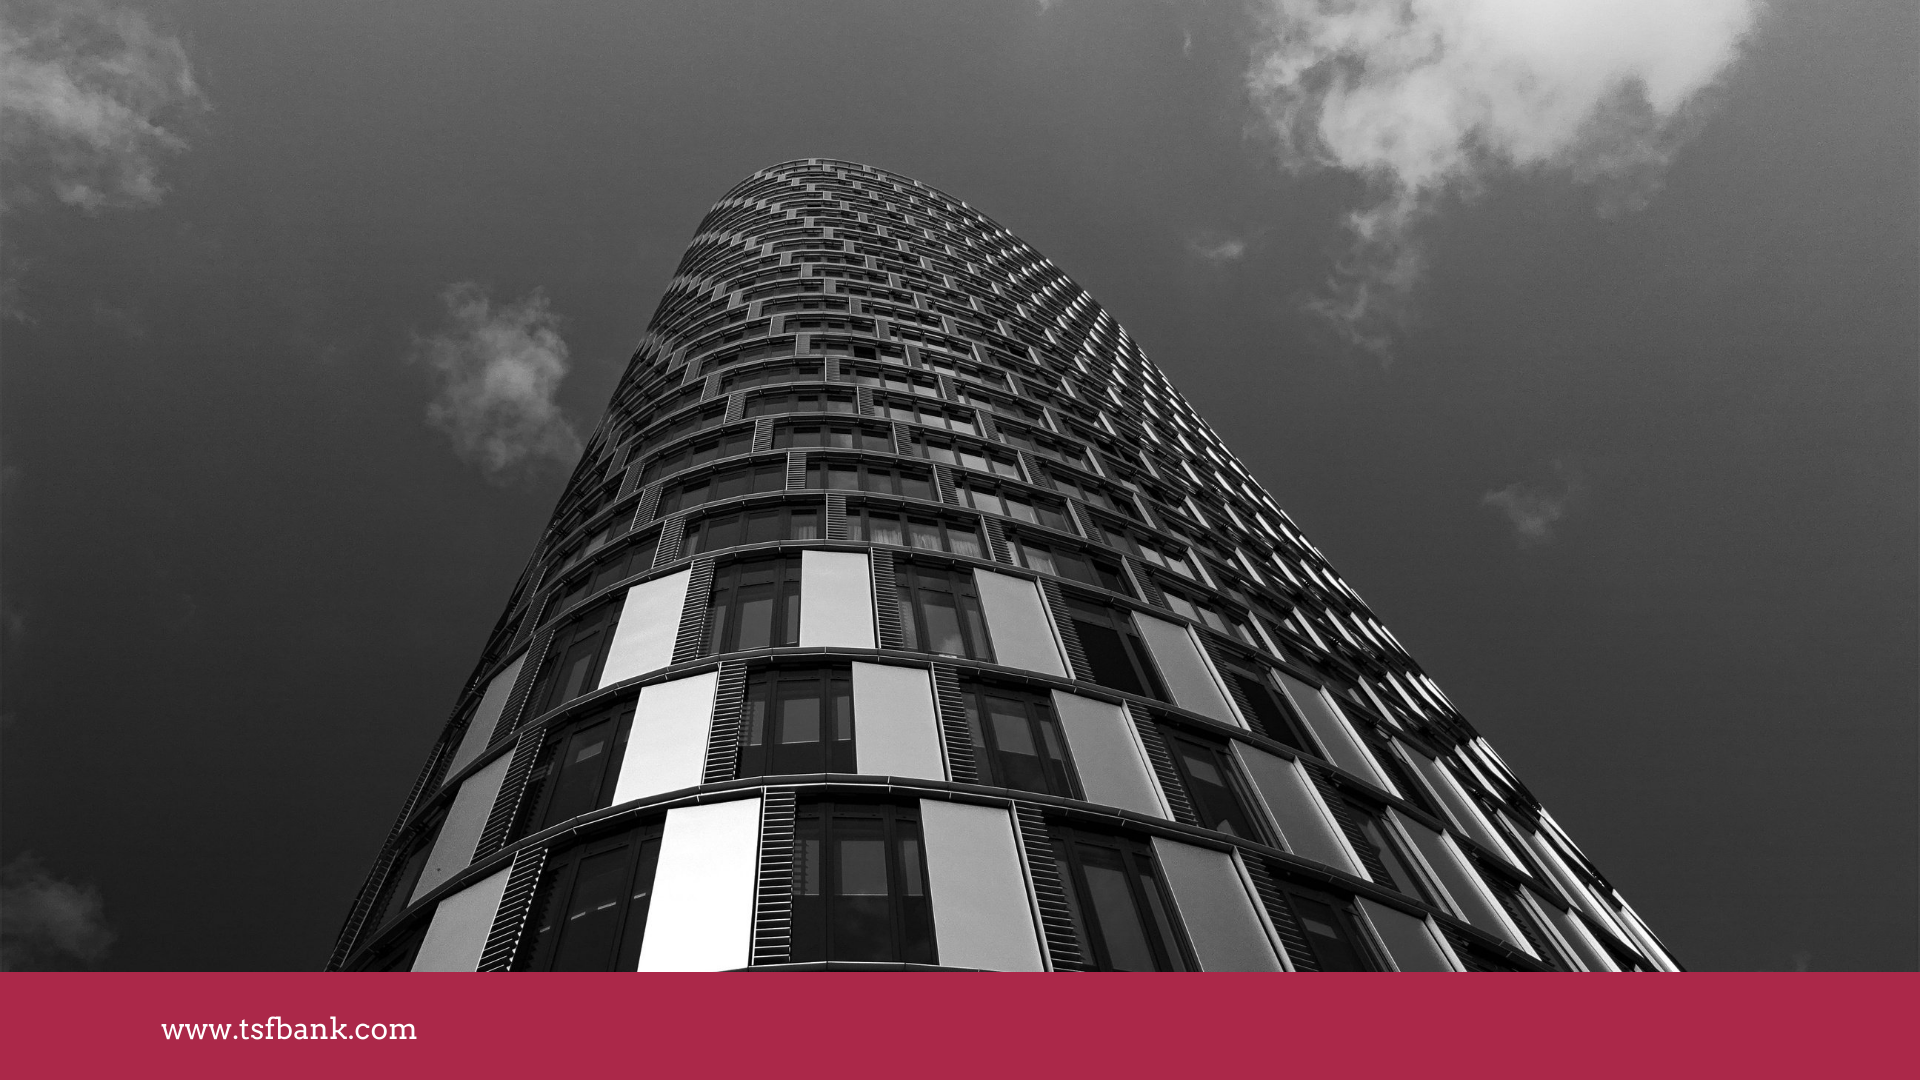
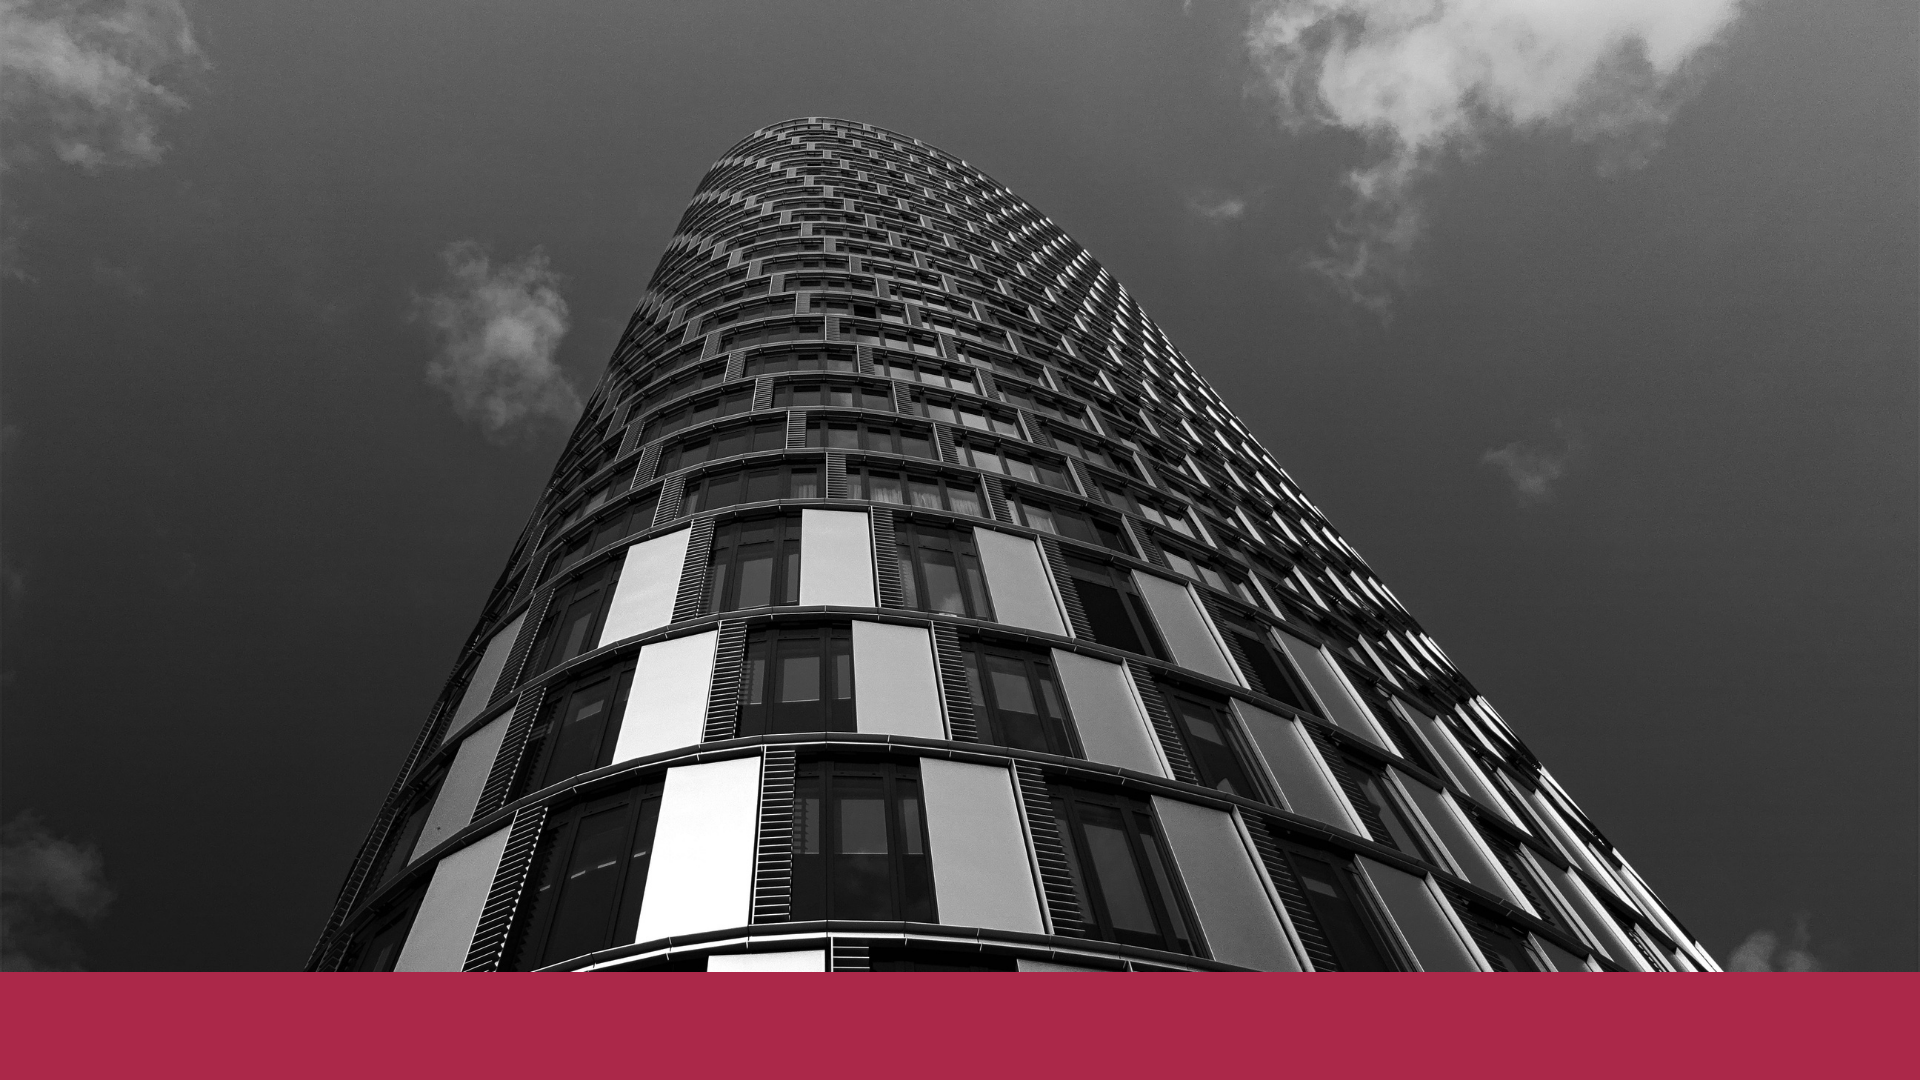
TSF

diff --git a/login.html b/login.html
@@ -15,7 +15,7 @@
 
 </head>
 
-<body>
+<body class="background">
 
     <nav class="navbar navbar-expand-lg navbar-dark bg-dark navbar-custom" style="font-family: -apple-system, BlinkMacSystemFont, 'Segoe UI', Roboto, Oxygen, Ubuntu, Cantarell, 'Open Sans', 'Helvetica Neue', sans-serif; background: #ab2849;">
         <a class="navbar-brand" href="index.html" style="font-family: -apple-system, BlinkMacSystemFont, 'Segoe UI', Roboto, Oxygen, Ubuntu, Cantarell, 'Open Sans', 'Helvetica Neue', sans-serif;"> <img src="Title.png" alt="" width="40" height="40"> &nbsp; TSF Bank &nbsp;&nbsp;</a>
@@ -53,8 +53,24 @@
             </div>
         </div>
     </nav>
-    <div class="background">
-        <br><br><br><br><br><br><br><br><br><br><br><br><br><br><br><br><br><br><br><br><br><br><br><br><br><br><br><br><br><br><br><br><br><br>
+    <div class="container">
+        <br><br><br>
+        <form class="login">
+            <div class="form-group" style="font-family: -apple-system, BlinkMacSystemFont, 'Segoe UI', Roboto, Oxygen, Ubuntu, Cantarell, 'Open Sans', 'Helvetica Neue', sans-serif; font: bold;">
+                <label for="exampleInputEmail1">Email address</label>
+                <input type="email" class="form-control" id="exampleInputEmail1" aria-describedby="emailHelp">
+                <small id="emailHelp" class="form-text text-muted">We'll never share your email with anyone else.</small>
+            </div>
+            <div class="form-group">
+                <label for="exampleInputPassword1">Password</label>
+                <input type="password" class="form-control" id="exampleInputPassword1">
+            </div>
+            <div class="form-group form-check">
+                <input type="checkbox" class="form-check-input" id="exampleCheck1">
+                <label class="form-check-label" for="exampleCheck1">Check me out</label>
+            </div>
+            <button type="submit" class="btn btn-primary">Submit</button>
+        </form>
     </div>
 
 

diff --git a/signup.html b/signup.html
@@ -15,7 +15,7 @@
 
 </head>
 
-<body>
+<body class="background">
 
     <nav class="navbar navbar-expand-lg navbar-dark bg-dark navbar-custom" style="font-family: -apple-system, BlinkMacSystemFont, 'Segoe UI', Roboto, Oxygen, Ubuntu, Cantarell, 'Open Sans', 'Helvetica Neue', sans-serif; background: #ab2849;">
         <a class="navbar-brand" href="index.html" style="font-family: -apple-system, BlinkMacSystemFont, 'Segoe UI', Roboto, Oxygen, Ubuntu, Cantarell, 'Open Sans', 'Helvetica Neue', sans-serif;"> <img src="Title.png" alt="" width="40" height="40"> &nbsp; TSF Bank &nbsp;&nbsp;</a>
@@ -53,9 +53,6 @@
             </div>
         </div>
     </nav>
-    <div class="background">
-        <br><br><br><br><br><br><br><br><br><br><br><br><br><br><br><br><br><br><br><br><br><br><br><br><br><br><br><br><br><br><br><br><br><br>
-    </div>
 
 
     <!-- Optional JavaScript; choose one of the two! -->

diff --git a/user.html b/user.html
@@ -15,7 +15,7 @@
 
 </head>
 
-<body>
+<body class="background">
 
     <nav class="navbar navbar-expand-lg navbar-dark bg-dark navbar-custom" style="font-family: -apple-system, BlinkMacSystemFont, 'Segoe UI', Roboto, Oxygen, Ubuntu, Cantarell, 'Open Sans', 'Helvetica Neue', sans-serif; background: #ab2849;">
         <a class="navbar-brand" href="index.html" style="font-family: -apple-system, BlinkMacSystemFont, 'Segoe UI', Roboto, Oxygen, Ubuntu, Cantarell, 'Open Sans', 'Helvetica Neue', sans-serif;"> <img src="Title.png" alt="" width="40" height="40"> &nbsp; TSF Bank &nbsp;&nbsp;</a>
@@ -53,9 +53,6 @@
             </div>
         </div>
     </nav>
-    <div class="background">
-        <br><br><br><br><br><br><br><br><br><br><br><br><br><br><br><br><br><br><br><br><br><br><br><br><br><br><br><br><br><br><br><br><br><br>
-    </div>
 
 
     <!-- Optional JavaScript; choose one of the two! -->

diff --git a/user.css b/user.css
@@ -1,5 +1,17 @@
-.background {
-    background-image: url("bg1.png");
-    background-size: 100% 100%;
-    background-repeat: repeat;
-}
+    .background {
+        background-image: url("bg1.png");
+        background-repeat: no-repeat;
+        background-size: cover;
+        background-position: top;
+        /* background-repeat: no-repeat;
+    -webkit-background-size: cover;
+    -moz-background-size: cover;
+    -o-background-size: cover;
+    background-size: cover;
+    background-position: center; */
+    }
+    
+    .login {
+        background-color: rgba(155, 155, 155, 0.438);
+        background-position: center;
+    }
